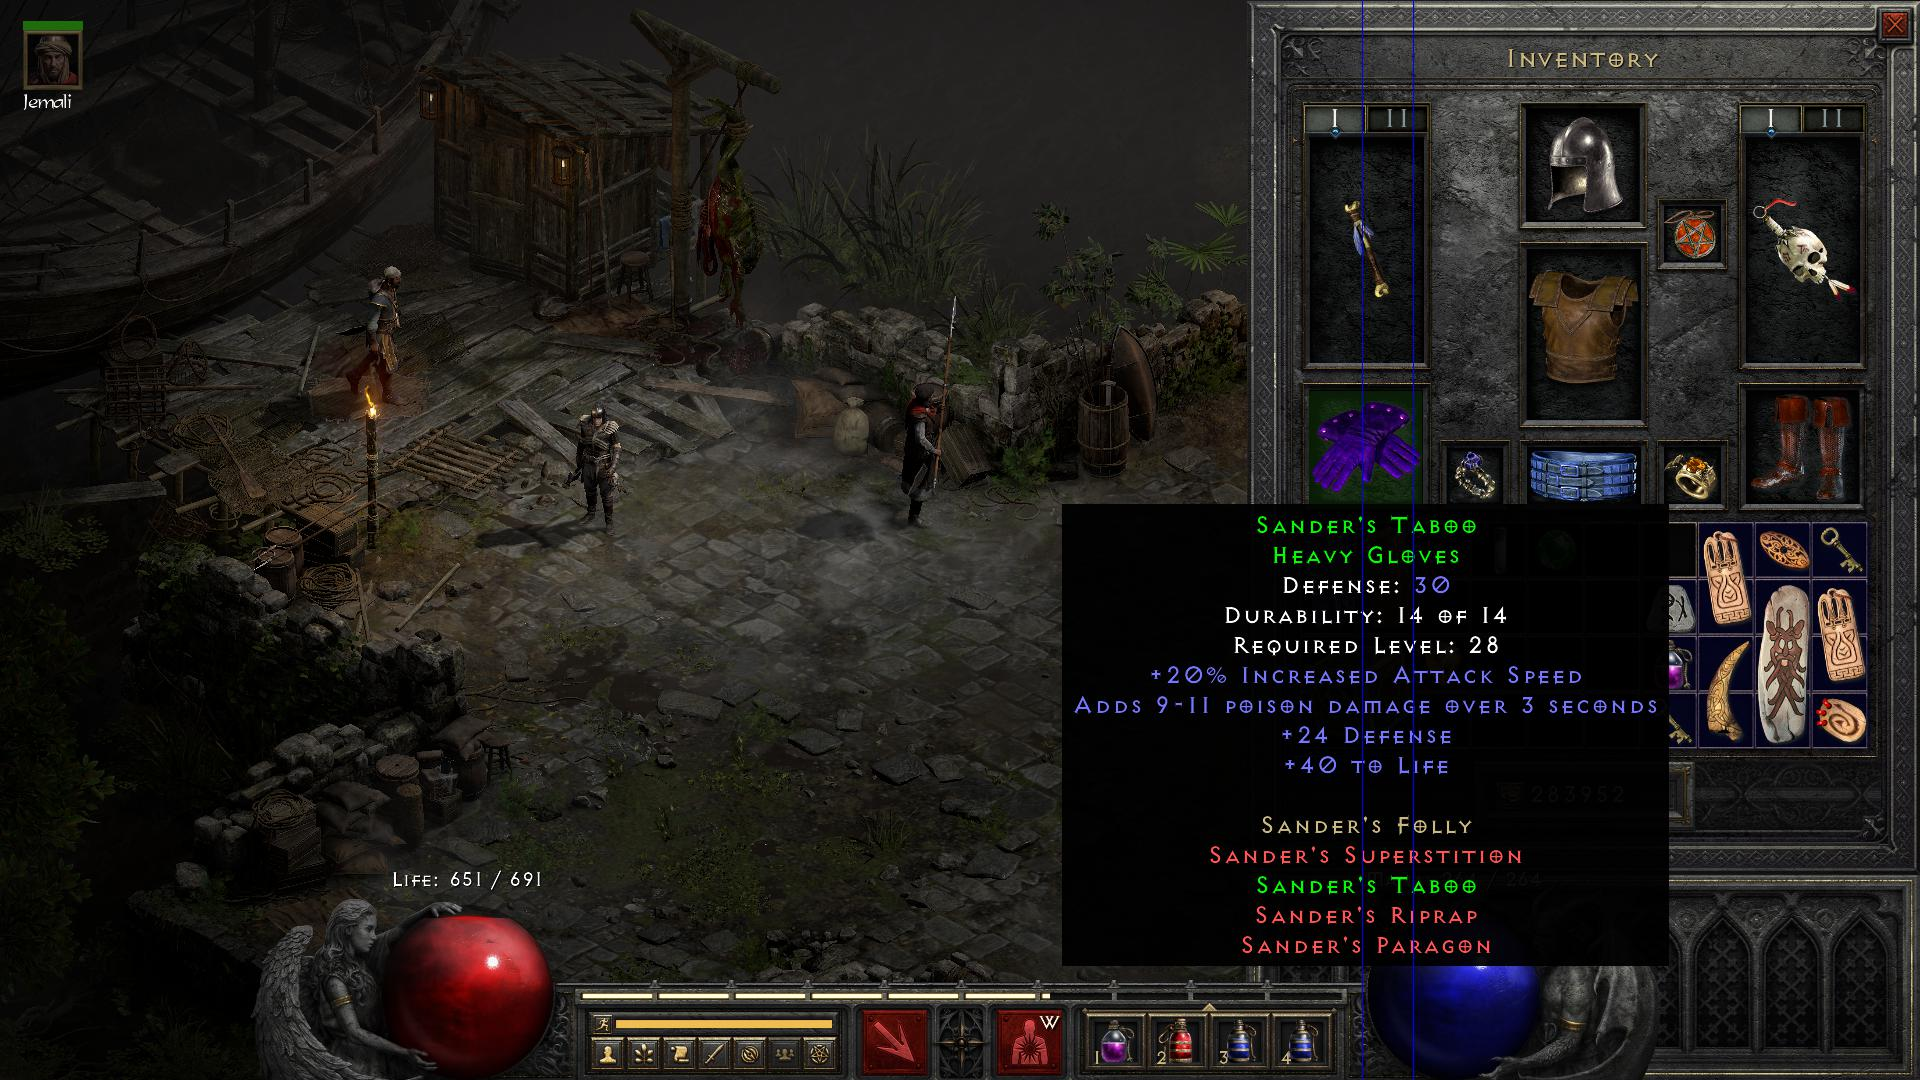
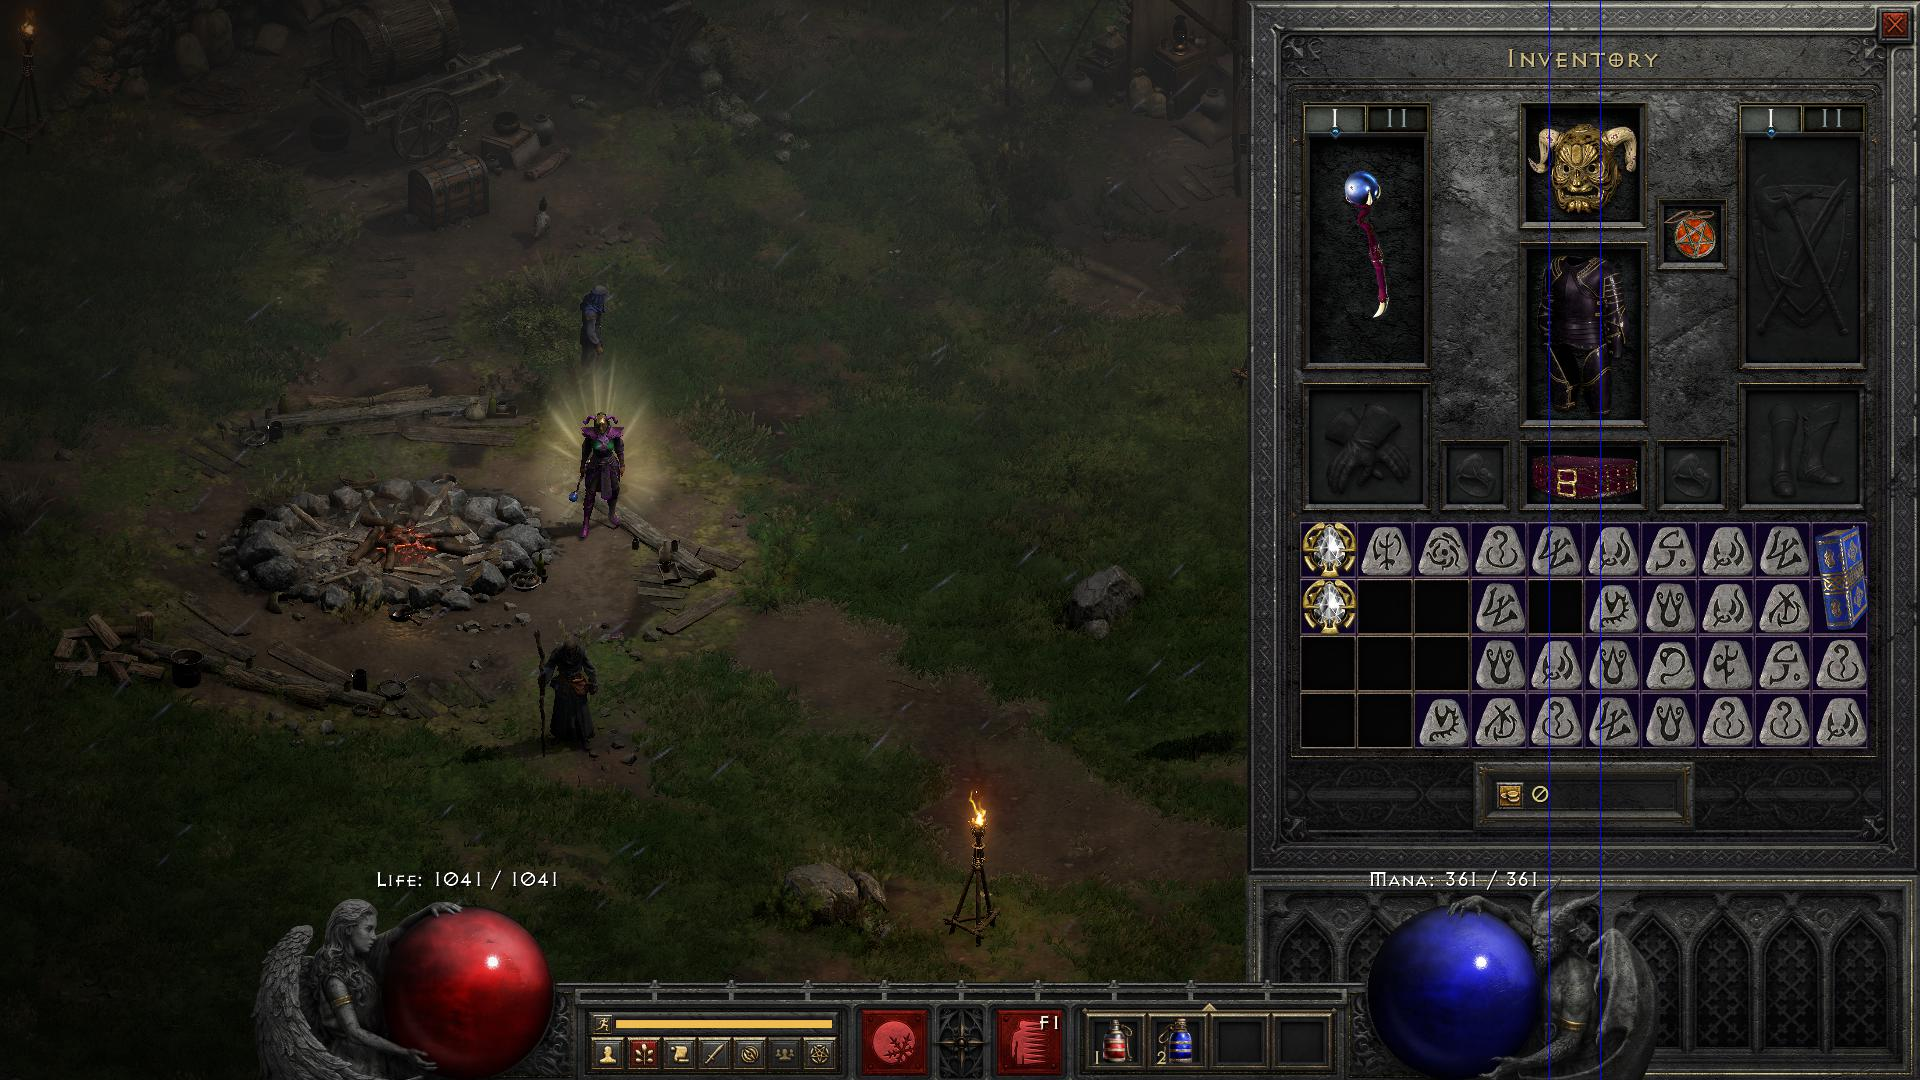
Add false item description box detection prevention

diff --git a/test_inventory.py b/test_inventory.py
@@ -42,7 +42,7 @@ if __name__ == "__main__":
 
         bgr = get_bgr(image_path)
 
-        write_docs = image_name == "hover_gloves_1388_441"
+        write_docs = image_name == "nothing_1575_800"
 
         if write_docs:
             bgr_docs = np.copy(bgr)
@@ -109,6 +109,10 @@ if __name__ == "__main__":
 
         # 6. Sum number of edges found on vertical lines
         bg_edges_sums = bg_edges.sum(axis=0)
+
+        if bg_edges_sums.max() < 25:
+            continue
+
         left = cursor_x - np.flip(bg_edges_sums[:cursor_x]).argmax()
         right = cursor_x + bg_edges_sums[cursor_x:].argmax()
 
@@ -127,6 +131,9 @@ if __name__ == "__main__":
         top = filled_y_values[horizontal_lines_with_edges.argmax()]
         bottom = filled_y_values[len(filled_y_values) -
                                  np.flip(horizontal_lines_with_edges).argmax() - 1]
+
+        if bottom - top < 50:
+            continue
 
         # step 7 docs
         if write_docs:

diff --git a/diablorun_igt/inventory_detection.py b/diablorun_igt/inventory_detection.py
@@ -151,8 +151,15 @@ def get_item_description_rect(bgr, cursor):
 
     # 6. Sum number of edges found on vertical lines
     bg_edges_sums = bg_edges.sum(axis=0)
+
+    if bg_edges_sums.max() < 25:
+        return None
+
     left = cursor[0] - np.flip(bg_edges_sums[:cursor[0]]).argmax()
     right = cursor[0] + bg_edges_sums[cursor[0]:].argmax()
+
+    if right - left < 100:
+        return None
 
     # 7. Find top and bottom
     horizontal_lines_with_edges = np.bitwise_and(horizontal_mask[:, left + 1],
@@ -161,6 +168,9 @@ def get_item_description_rect(bgr, cursor):
     top = filled_y_values[horizontal_lines_with_edges.argmax()]
     bottom = filled_y_values[len(filled_y_values) -
                              np.flip(horizontal_lines_with_edges).argmax() - 1]
+
+    if bottom - top < 50:
+        return None
 
     # 8. Done
     return left, top, right, bottom
